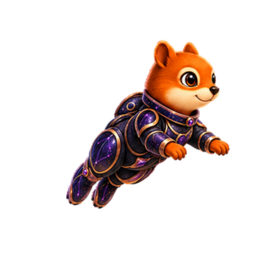
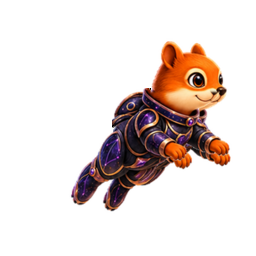
Restrain Eclipse arm motion

Changed region(s): [[0.25, 0.4688, 0.9062, 0.8438], [0.5625, 0.1562, 0.9062, 0.5], [0.8125, 0.5, 0.8438, 0.5312]]

diff --git a/ANIMATION_TAP_RISE_SPEC.md b/ANIMATION_TAP_RISE_SPEC.md
@@ -51,6 +51,8 @@ floor of 0.16 seconds.
 - Animation begins and ends on the exact static body/tail pose.
 - No body-frame crossfades. Painterly faces and armor seams become blurry or
   double when crossfaded at game scale.
+- Arm and hand motion must remain subordinate to the legs and tail. Do not use
+  a full forward reach during the short tap burst.
 - Docs and `sandbox_assets` mirrors must remain byte-matched.
 
 ## 4. Architecture
@@ -99,6 +101,8 @@ Eclipse is the approved high-detail reference implementation:
 - 256 x 256 RGBA;
 - transparent background;
 - fixed root, head/collar registration, and helmet anchor;
+- restrained arms: thrust frames 3–5 reuse frame 1's compact arm pixels while
+  retaining their own torso, hip, leg, and boot motion;
 - original procedural tail remains a separate layer.
 
 Asset names:
